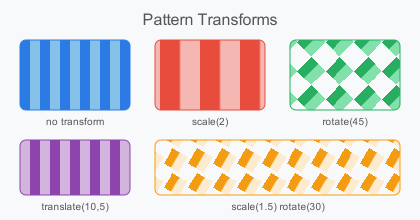
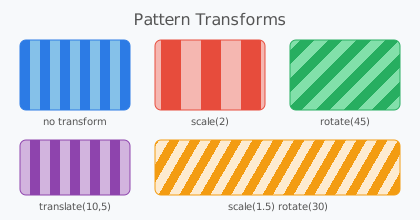
Fix patternTransform rendering for combined scale+rotate transforms (#185)
* Initial plan

* Fix pattern transform: apply patternTransform via Graphics2D coordinate system

Instead of transforming the tile image and using the bounding box as the
TexturePaint anchor (which breaks for rotation/skew combinations),
store the patternTransform on the Surface and apply it during fill/stroke
by transforming the Graphics2D coordinate system and inverse-transforming
the path. This ensures the entire tiling grid is correctly transformed.

Agent-Logs-Url: https://github.com/brunoborges/jairosvg/sessions/9a963ec8-4f9d-4d6e-8840-77e275ddd079

* Refactor: extract paintWithTransform helper to reduce duplication

Agent-Logs-Url: https://github.com/brunoborges/jairosvg/sessions/9a963ec8-4f9d-4d6e-8840-77e275ddd079

---------

diff --git a/src/test/java/io/brunoborges/jairosvg/PatternTest.java b/src/test/java/io/brunoborges/jairosvg/PatternTest.java
@@ -165,4 +165,89 @@ class PatternTest {
         int red = (pixel >> 16) & 0xFF;
         assertTrue(red > 200, "Pattern with translate transform should still produce red pixels");
     }
+
+    @Test
+    void testSvgWithPatternTransformScaleRotateCombined() throws Exception {
+        // Pattern: 12×12 tile, left half orange, right half cream.
+        // With scale(1.5) rotate(30), the pattern tiling grid should be scaled and
+        // rotated.
+        // Verify that the combined transform produces a different layout from each
+        // individual transform and that pixels are fully filled (no gaps from
+        // incorrect tiling).
+        String svgCombo = """
+                <svg xmlns="http://www.w3.org/2000/svg" width="200" height="200">
+                  <defs>
+                    <pattern id="patCombo" x="0" y="0" width="12" height="12"
+                             patternUnits="userSpaceOnUse"
+                             patternTransform="scale(1.5) rotate(30)">
+                      <rect width="6" height="12" fill="#f39c12"/>
+                      <rect x="6" width="6" height="12" fill="#fdebd0"/>
+                    </pattern>
+                  </defs>
+                  <rect width="200" height="200" fill="url(#patCombo)"/>
+                </svg>
+                """;
+        String svgScaleOnly = """
+                <svg xmlns="http://www.w3.org/2000/svg" width="200" height="200">
+                  <defs>
+                    <pattern id="patScale" x="0" y="0" width="12" height="12"
+                             patternUnits="userSpaceOnUse"
+                             patternTransform="scale(1.5)">
+                      <rect width="6" height="12" fill="#f39c12"/>
+                      <rect x="6" width="6" height="12" fill="#fdebd0"/>
+                    </pattern>
+                  </defs>
+                  <rect width="200" height="200" fill="url(#patScale)"/>
+                </svg>
+                """;
+        String svgRotateOnly = """
+                <svg xmlns="http://www.w3.org/2000/svg" width="200" height="200">
+                  <defs>
+                    <pattern id="patRotate" x="0" y="0" width="12" height="12"
+                             patternUnits="userSpaceOnUse"
+                             patternTransform="rotate(30)">
+                      <rect width="6" height="12" fill="#f39c12"/>
+                      <rect x="6" width="6" height="12" fill="#fdebd0"/>
+                    </pattern>
+                  </defs>
+                  <rect width="200" height="200" fill="url(#patRotate)"/>
+                </svg>
+                """;
+
+        BufferedImage imgCombo = ImageIO
+                .read(new ByteArrayInputStream(JairoSVG.svg2png(svgCombo.getBytes(StandardCharsets.UTF_8))));
+        BufferedImage imgScale = ImageIO
+                .read(new ByteArrayInputStream(JairoSVG.svg2png(svgScaleOnly.getBytes(StandardCharsets.UTF_8))));
+        BufferedImage imgRotate = ImageIO
+                .read(new ByteArrayInputStream(JairoSVG.svg2png(svgRotateOnly.getBytes(StandardCharsets.UTF_8))));
+
+        assertEquals(200, imgCombo.getWidth());
+        assertEquals(200, imgScale.getWidth());
+        assertEquals(200, imgRotate.getWidth());
+
+        // The combined transform should produce output different from scale-only and
+        // rotate-only
+        int diffFromScale = 0, diffFromRotate = 0;
+        for (int y = 0; y < 200; y += 5) {
+            for (int x = 0; x < 200; x += 5) {
+                if (imgCombo.getRGB(x, y) != imgScale.getRGB(x, y))
+                    diffFromScale++;
+                if (imgCombo.getRGB(x, y) != imgRotate.getRGB(x, y))
+                    diffFromRotate++;
+            }
+        }
+        assertTrue(diffFromScale > 0, "Combined transform should differ from scale-only");
+        assertTrue(diffFromRotate > 0, "Combined transform should differ from rotate-only");
+
+        // Verify that every pixel in the center region is filled (no transparent gaps
+        // from incorrect tiling). The pattern has two opaque halves, so the entire
+        // rectangle should be opaque.
+        for (int y = 50; y < 150; y += 5) {
+            for (int x = 50; x < 150; x += 5) {
+                int alpha = (imgCombo.getRGB(x, y) >> 24) & 0xFF;
+                assertTrue(alpha > 250,
+                        "Combined pattern should be fully opaque at (%d,%d), alpha=%d".formatted(x, y, alpha));
+            }
+        }
+    }
 }

diff --git a/src/main/java/io/brunoborges/jairosvg/surface/Surface.java b/src/main/java/io/brunoborges/jairosvg/surface/Surface.java
@@ -91,6 +91,9 @@ public sealed class Surface permits PngSurface, JpegSurface, TiffSurface, PdfSur
     private BufferedImage effectBuffer;
     private boolean effectBufferInUse;
 
+    // Pattern transform (set by PatternPainter, consumed by fill/stroke)
+    public AffineTransform paintTransform;
+
     // Surface dimensions
     protected BufferedImage image;
     protected double width;
@@ -458,7 +461,7 @@ public sealed class Surface permits PngSurface, JpegSurface, TiffSurface, PdfSur
                         } else {
                             path.setWindingRule(GeneralPath.WIND_NON_ZERO);
                         }
-                        context.fill(path);
+                        paintWithTransform(path, true);
                     }
                 }
 
@@ -506,7 +509,7 @@ public sealed class Surface permits PngSurface, JpegSurface, TiffSurface, PdfSur
                                 : new BasicStroke(strokeWidth, cap, join, miterLimit);
 
                         context.setStroke(stroke);
-                        context.draw(path);
+                        paintWithTransform(path, false);
                     }
                 }
 
@@ -654,6 +657,38 @@ public sealed class Surface permits PngSurface, JpegSurface, TiffSurface, PdfSur
     /** Get the rendered image. */
     public BufferedImage getImage() {
         return image;
+    }
+
+    /**
+     * Paint a shape (fill or stroke) while honouring a pending
+     * {@link #paintTransform}. When a pattern's {@code patternTransform} is active
+     * the Graphics2D coordinate system is temporarily transformed so that the
+     * TexturePaint tiling grid is correctly scaled/rotated/skewed.
+     */
+    private void paintWithTransform(Shape shape, boolean fill) {
+        if (paintTransform != null) {
+            AffineTransform saved = context.getTransform();
+            context.transform(paintTransform);
+            try {
+                Shape mapped = paintTransform.createInverse().createTransformedShape(shape);
+                if (fill)
+                    context.fill(mapped);
+                else
+                    context.draw(mapped);
+            } catch (java.awt.geom.NoninvertibleTransformException e) {
+                if (fill)
+                    context.fill(shape);
+                else
+                    context.draw(shape);
+            }
+            context.setTransform(saved);
+            paintTransform = null;
+        } else {
+            if (fill)
+                context.fill(shape);
+            else
+                context.draw(shape);
+        }
     }
 
     private static int getLineCap(String cap) {

diff --git a/src/main/java/io/brunoborges/jairosvg/draw/PatternPainter.java b/src/main/java/io/brunoborges/jairosvg/draw/PatternPainter.java
@@ -125,39 +125,20 @@ public final class PatternPainter {
         // Create anchor rectangle (untransformed pattern region)
         Rectangle2D anchor = new Rectangle2D.Double(patX, patY, patW, patH);
 
-        // Apply patternTransform by pre-transforming the pattern image and anchor,
-        // so that rotation/skew are preserved in the tile pixels.
-        BufferedImage paintImage = patImage;
+        // Parse patternTransform and store on surface for application during
+        // fill/stroke. The transform is applied to the Graphics2D coordinate system
+        // so that the entire tiling grid is transformed, rather than transforming
+        // individual tile images (which breaks for rotation/skew combinations).
         String ptStr = patternNode.get("patternTransform");
         if (ptStr != null && !ptStr.isEmpty()) {
             AffineTransform pt = Helpers.parseTransform(surface, ptStr);
             if (pt != null && !pt.isIdentity()) {
-                // Compute transformed anchor bounds in user space
-                Rectangle2D dstRect = pt.createTransformedShape(anchor).getBounds2D();
-
-                int dstW = Math.max(1, (int) Math.ceil(dstRect.getWidth()));
-                int dstH = Math.max(1, (int) Math.ceil(dstRect.getHeight()));
-
-                BufferedImage transformedImage = new BufferedImage(dstW, dstH, BufferedImage.TYPE_INT_ARGB);
-                Graphics2D g2 = transformedImage.createGraphics();
-                try {
-                    g2.setRenderingHint(RenderingHints.KEY_INTERPOLATION, RenderingHints.VALUE_INTERPOLATION_BILINEAR);
-                    // Map: input pixel → pattern space → user space → output pixel
-                    AffineTransform at = new AffineTransform();
-                    at.translate(-dstRect.getX(), -dstRect.getY());
-                    at.concatenate(pt);
-                    at.translate(patX, patY);
-                    g2.drawImage(patImage, at, null);
-                } finally {
-                    g2.dispose();
-                }
-                paintImage = transformedImage;
-                anchor = dstRect;
+                surface.paintTransform = pt;
             }
         }
 
         // Create TexturePaint
-        TexturePaint texturePaint = new TexturePaint(paintImage, anchor);
+        TexturePaint texturePaint = new TexturePaint(patImage, anchor);
         surface.context.setPaint(texturePaint);
         return true;
     }